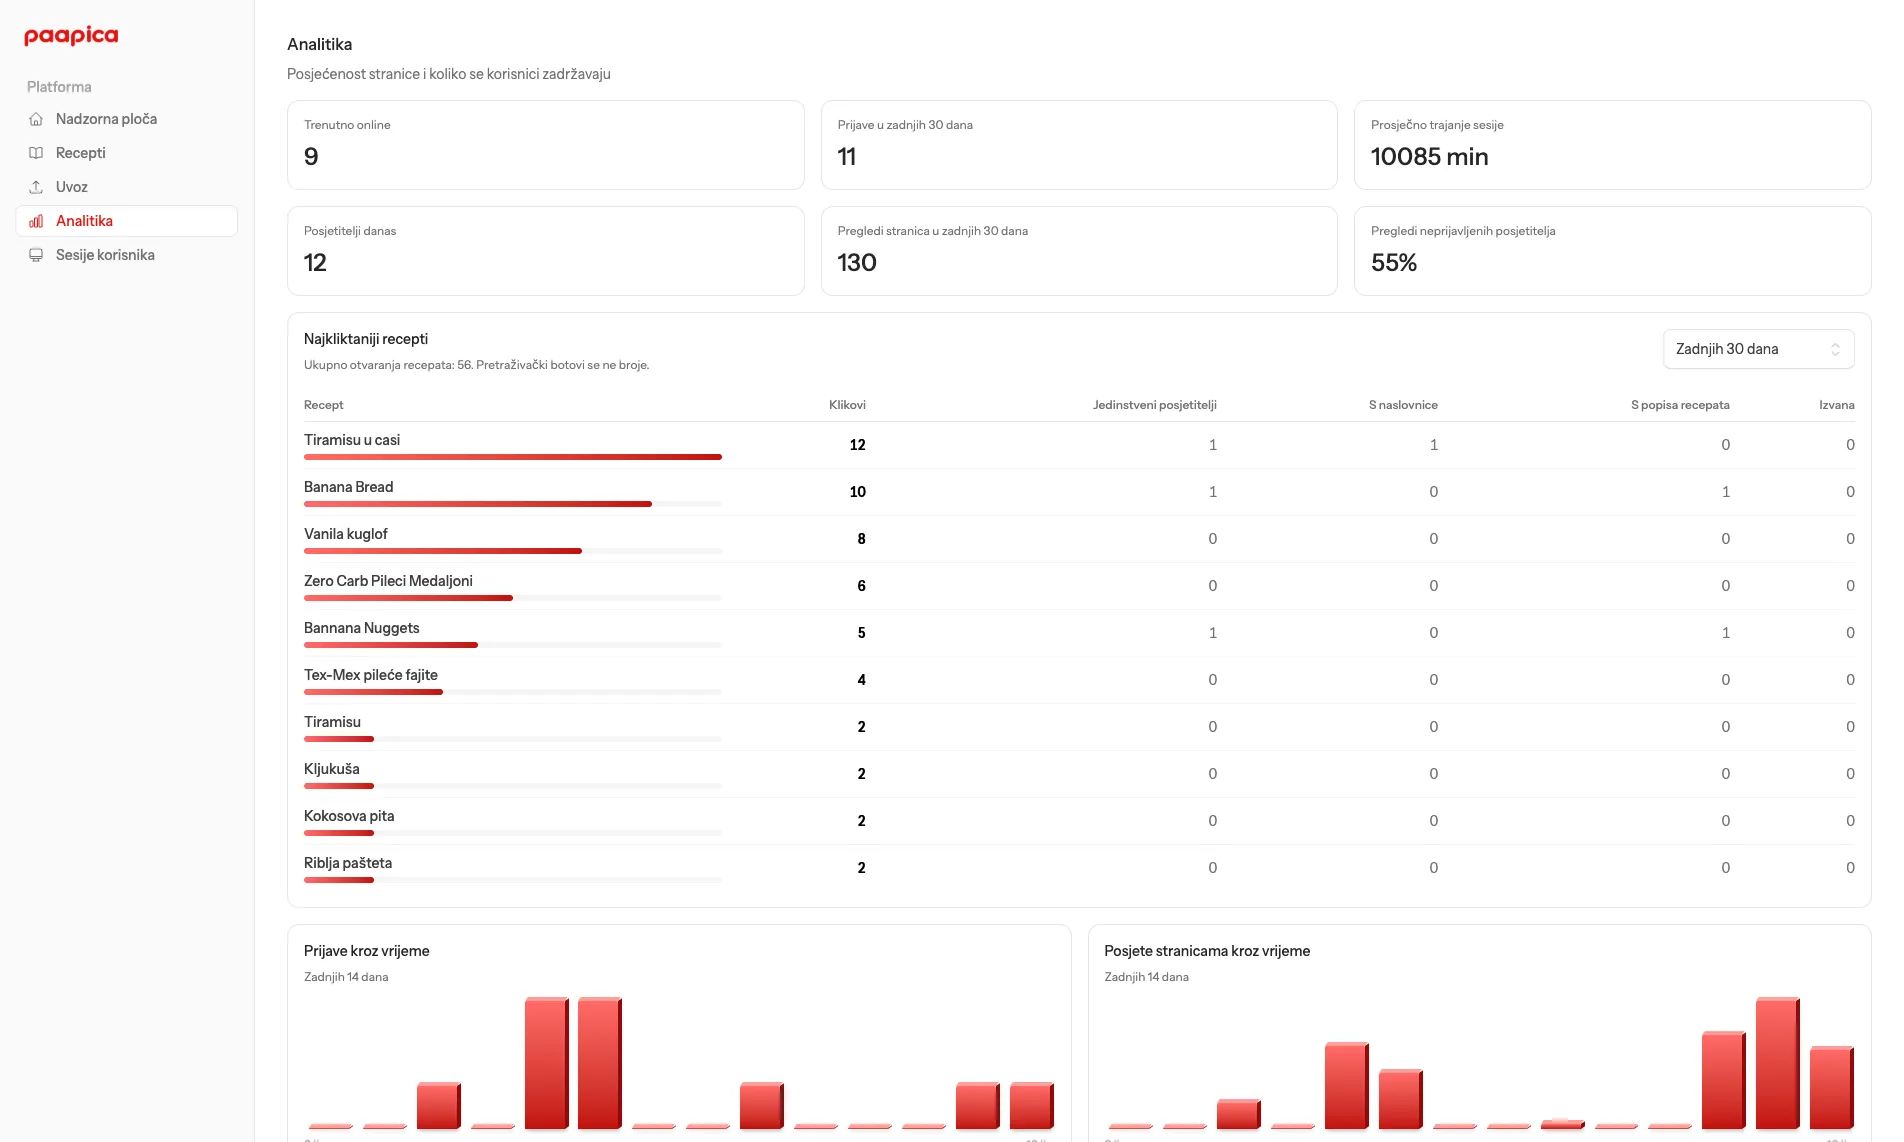
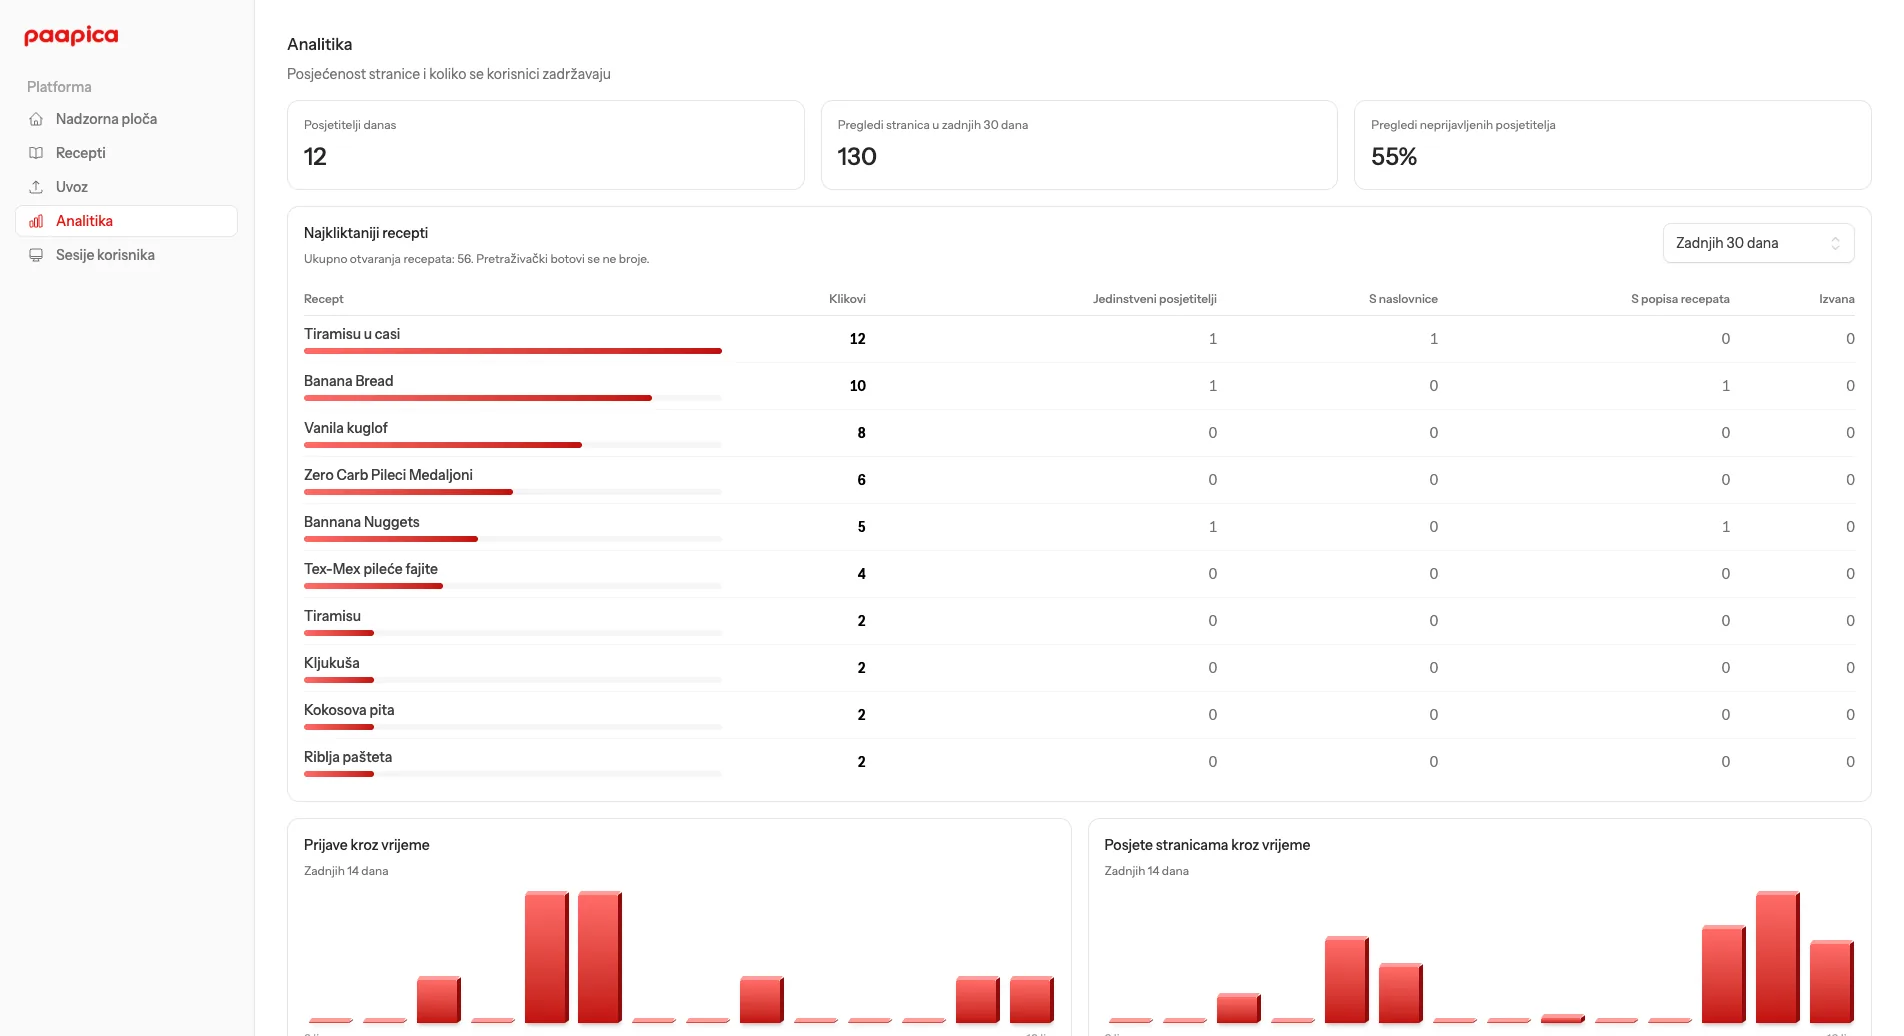
Crop the session length cards out of the Paapica analytics screenshot
Claude-Session: https://claude.ai/code/session_01UXwF4ByMw92KmvqTMEU8oq

diff --git a/de/paapica-details.html b/de/paapica-details.html
@@ -133,7 +133,7 @@
                     <div class="gallery-track">
                         <img loading="lazy" decoding="async" src="../images/portfolio/paapica_recipe.webp" alt="Paapica - recept s preračunom porcija i nutritivnim vrijednostima"/>
                         <img loading="lazy" decoding="async" src="../images/portfolio/paapica_import.webp" alt="Paapica - uvoz recepata iz Excela, fotografije ili videa"/>
-                        <img loading="lazy" decoding="async" src="../images/portfolio/paapica_analytics.webp" alt="Paapica - analitika posjećenosti i najotvaranijih recepata"/>
+                        <img loading="lazy" decoding="async" src="../images/portfolio/paapica_analytics.webp?v=2" alt="Paapica - analitika posjećenosti i najotvaranijih recepata"/>
                     </div>
                 </div>
 

diff --git a/en/paapica-details.html b/en/paapica-details.html
@@ -133,7 +133,7 @@
                     <div class="gallery-track">
                         <img loading="lazy" decoding="async" src="../images/portfolio/paapica_recipe.webp" alt="Paapica - recept s preračunom porcija i nutritivnim vrijednostima"/>
                         <img loading="lazy" decoding="async" src="../images/portfolio/paapica_import.webp" alt="Paapica - uvoz recepata iz Excela, fotografije ili videa"/>
-                        <img loading="lazy" decoding="async" src="../images/portfolio/paapica_analytics.webp" alt="Paapica - analitika posjećenosti i najotvaranijih recepata"/>
+                        <img loading="lazy" decoding="async" src="../images/portfolio/paapica_analytics.webp?v=2" alt="Paapica - analitika posjećenosti i najotvaranijih recepata"/>
                     </div>
                 </div>
 

diff --git a/it/paapica-details.html b/it/paapica-details.html
@@ -133,7 +133,7 @@
                     <div class="gallery-track">
                         <img loading="lazy" decoding="async" src="../images/portfolio/paapica_recipe.webp" alt="Paapica - recept s preračunom porcija i nutritivnim vrijednostima"/>
                         <img loading="lazy" decoding="async" src="../images/portfolio/paapica_import.webp" alt="Paapica - uvoz recepata iz Excela, fotografije ili videa"/>
-                        <img loading="lazy" decoding="async" src="../images/portfolio/paapica_analytics.webp" alt="Paapica - analitika posjećenosti i najotvaranijih recepata"/>
+                        <img loading="lazy" decoding="async" src="../images/portfolio/paapica_analytics.webp?v=2" alt="Paapica - analitika posjećenosti i najotvaranijih recepata"/>
                     </div>
                 </div>
 

diff --git a/paapica-details.html b/paapica-details.html
@@ -133,7 +133,7 @@
                     <div class="gallery-track">
                         <img loading="lazy" decoding="async" src="images/portfolio/paapica_recipe.webp" alt="Paapica - recept s preračunom porcija i nutritivnim vrijednostima"/>
                         <img loading="lazy" decoding="async" src="images/portfolio/paapica_import.webp" alt="Paapica - uvoz recepata iz Excela, fotografije ili videa"/>
-                        <img loading="lazy" decoding="async" src="images/portfolio/paapica_analytics.webp" alt="Paapica - analitika posjećenosti i najotvaranijih recepata"/>
+                        <img loading="lazy" decoding="async" src="images/portfolio/paapica_analytics.webp?v=2" alt="Paapica - analitika posjećenosti i najotvaranijih recepata"/>
                     </div>
                 </div>
 

diff --git a/src/paapica-details.html b/src/paapica-details.html
@@ -156,7 +156,7 @@
                     <div class="gallery-track">
                         <img loading="lazy" decoding="async" src="images/portfolio/paapica_recipe.webp" alt="Paapica - recept s preračunom porcija i nutritivnim vrijednostima"/>
                         <img loading="lazy" decoding="async" src="images/portfolio/paapica_import.webp" alt="Paapica - uvoz recepata iz Excela, fotografije ili videa"/>
-                        <img loading="lazy" decoding="async" src="images/portfolio/paapica_analytics.webp" alt="Paapica - analitika posjećenosti i najotvaranijih recepata"/>
+                        <img loading="lazy" decoding="async" src="images/portfolio/paapica_analytics.webp?v=2" alt="Paapica - analitika posjećenosti i najotvaranijih recepata"/>
                     </div>
                 </div>
 
